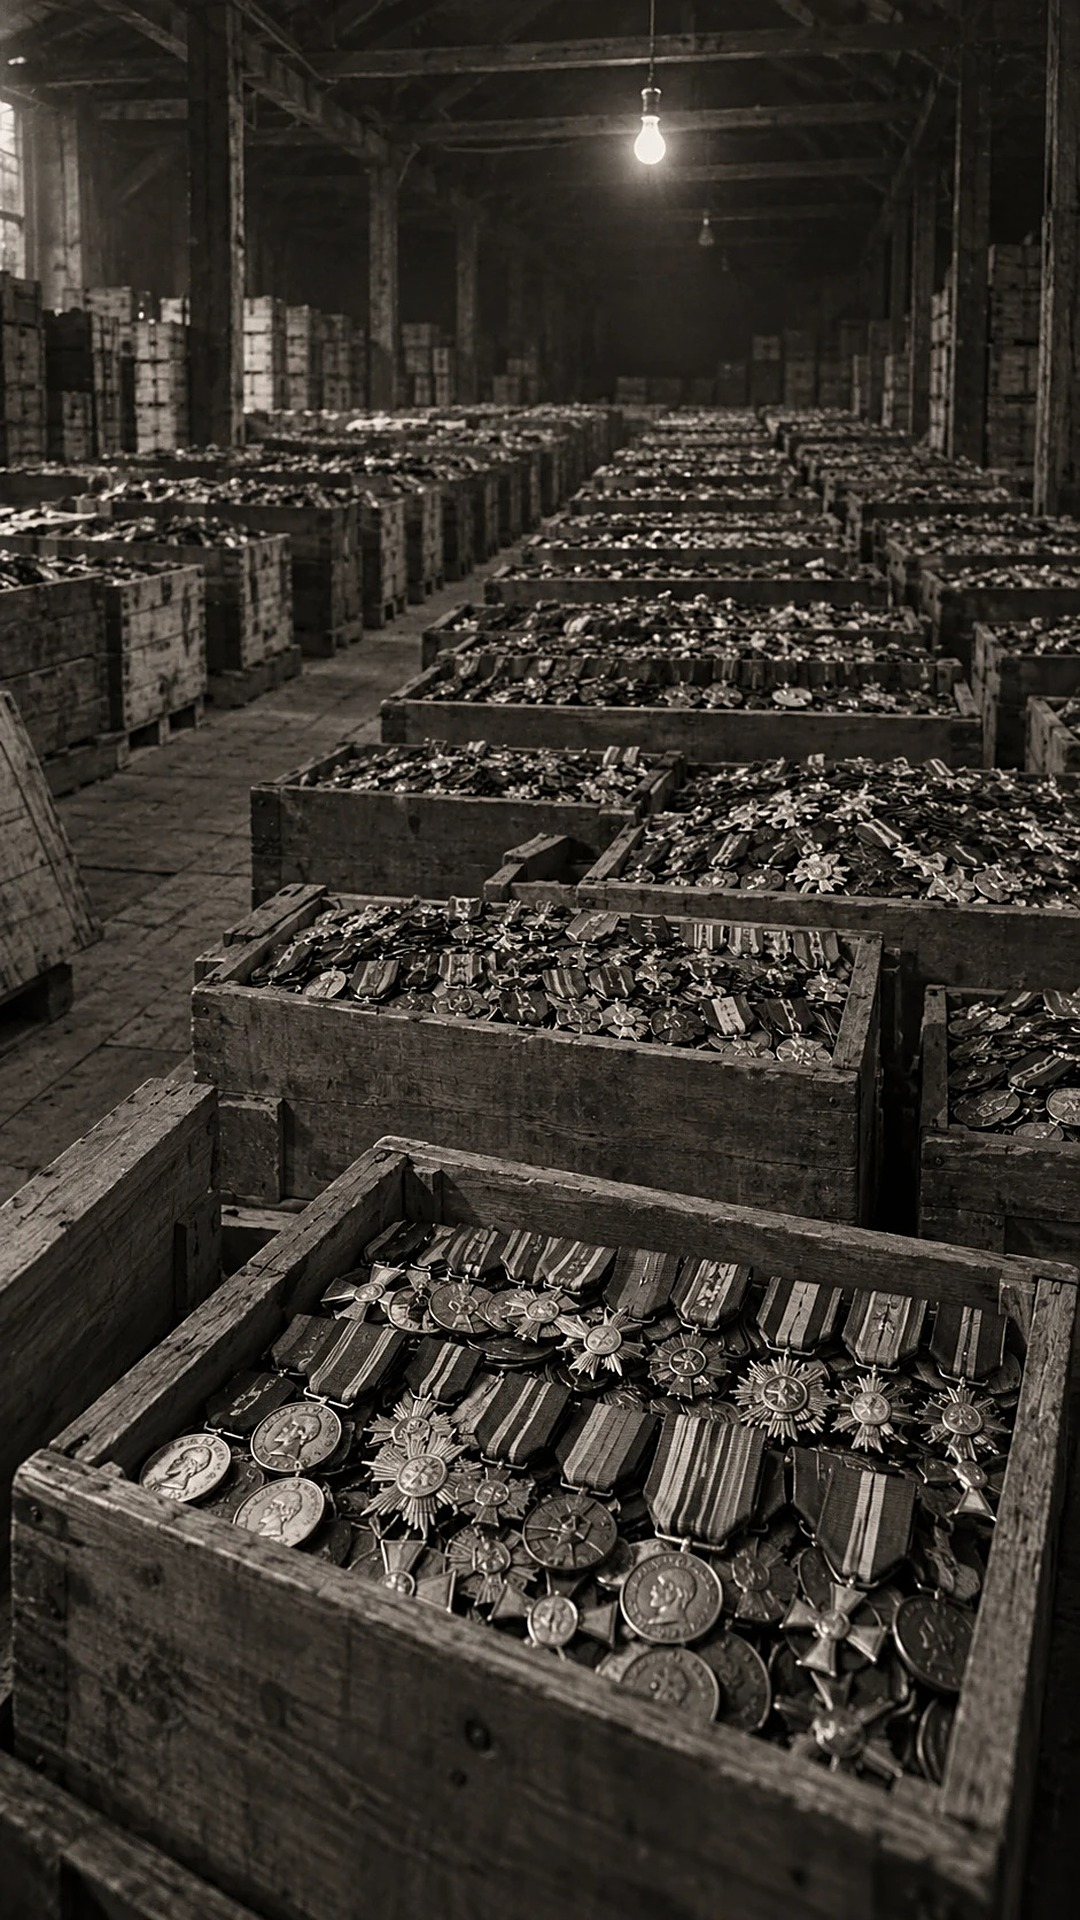
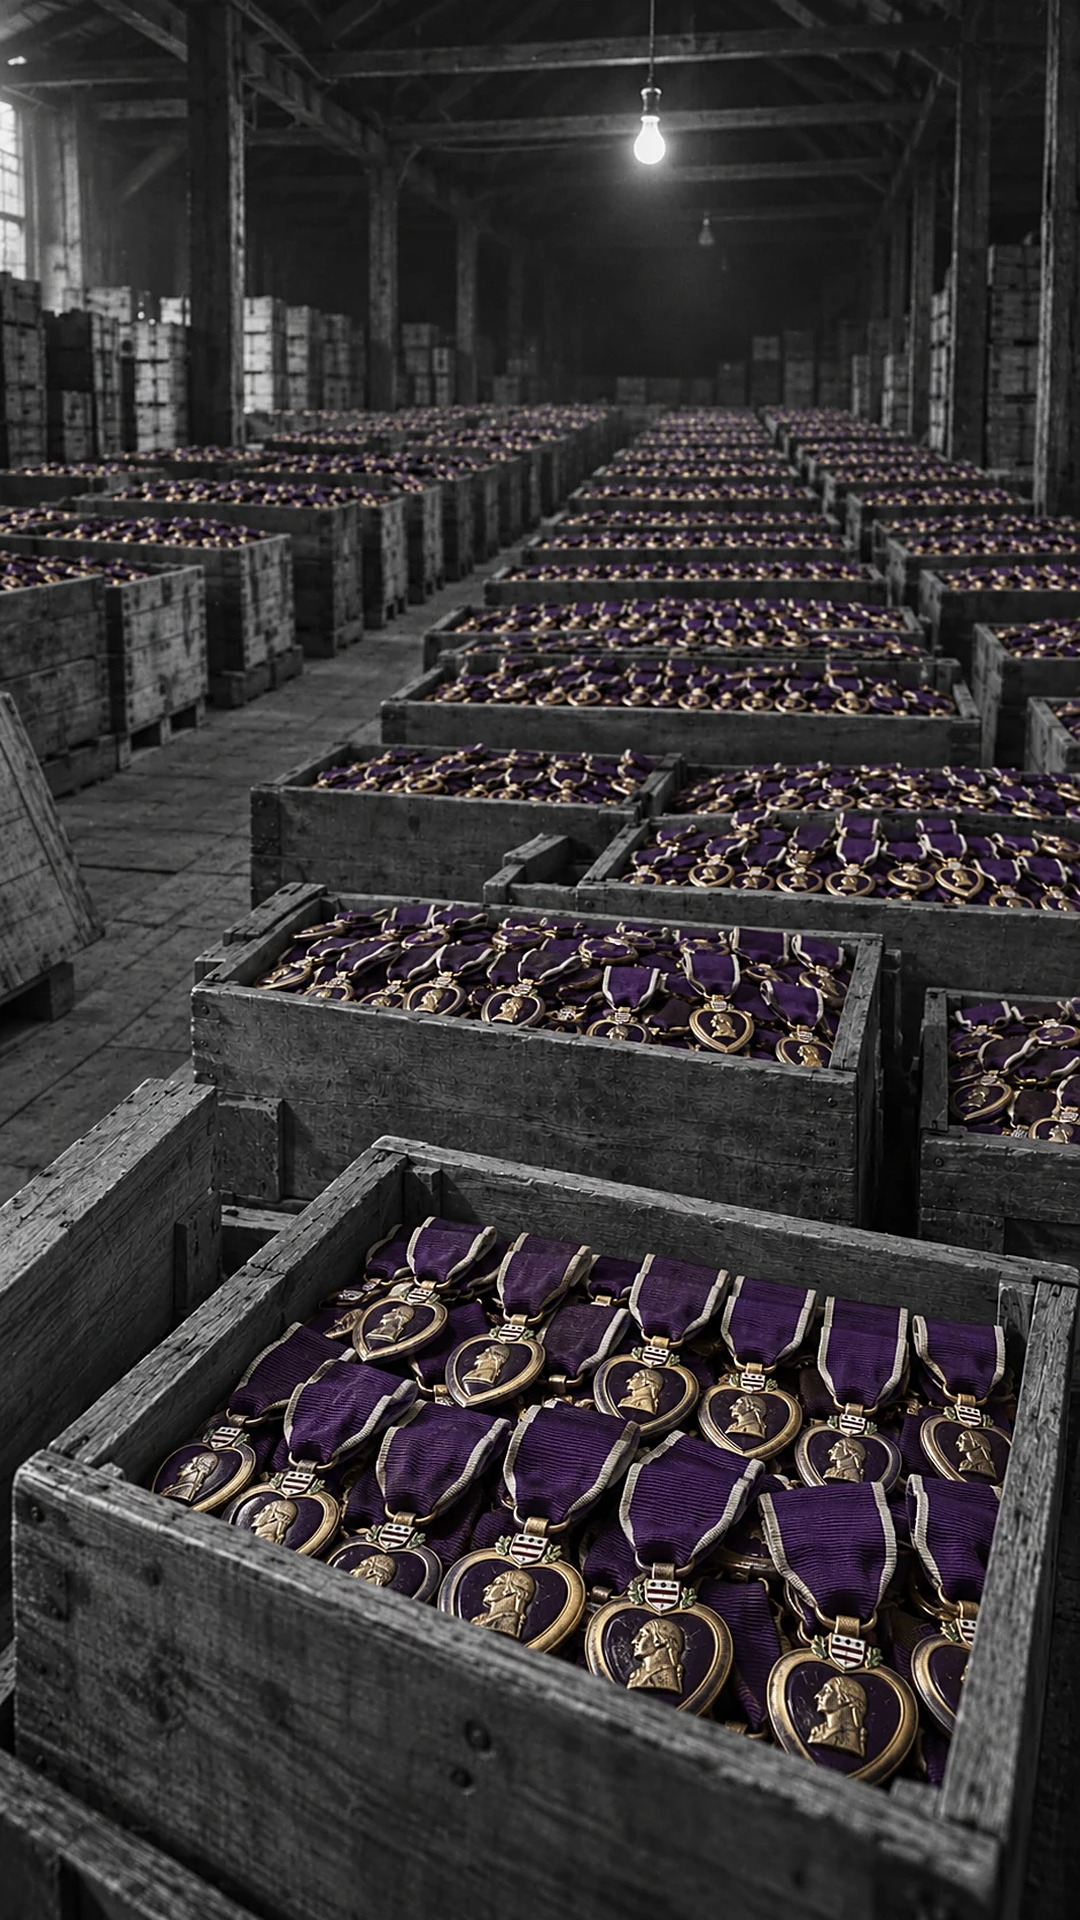
Bomb Short: add Purple Hearts warehouse image and scene update (videos not yet re-rendered)
Claude-Session: https://claude.ai/code/session_01Td8MTBUNaiXRLwJzNmGLks

diff --git a/shorts_bomb_came_later/index.html b/shorts_bomb_came_later/index.html
@@ -475,7 +475,7 @@ canvas{background:#000;max-width:100%;max-height:100%;aspect-ratio:9/16;height:1
   window.loadAssets = async () => {
     const imgs = await Promise.all(NAMES.map((n) => loadImg('assets/' + n + '.jpg')));
     NAMES.forEach((n, i) => { A[n] = filtered(imgs[i], 'contrast(1.08)'); });
-    A.medalsPurple = await loadImg('assets/medals_purple.png'); A.moonBlur = filtered(imgs[NAMES.indexOf('moon')], 'blur(14px) contrast(0.9)');
+    A.moonBlur = filtered(imgs[NAMES.indexOf('moon')], 'blur(14px) contrast(0.9)');
     A.cloudHot = filtered(imgs[0], 'brightness(1.6) contrast(1.3)');
     const [n, s, smoke] = await Promise.all([loadImg('assets/jp_north.png'), loadImg('assets/jp_south.png'), loadImg('assets/smoke.png')]);
     A.north = tintMask(n, [224, 38, 59]); A.south = tintMask(s, [47, 124, 240]);
@@ -643,8 +643,7 @@ canvas{background:#000;max-width:100%;max-height:100%;aspect-ratio:9/16;height:1
       [[0.2, 0.66, 0], [0.29, 0.69, 0.35], [0.3, 0.35, 0.7], [0.66, 0.42, 1.0], [0.26, 0.5, 1.6], [0.2, 0.66, 2.2]].forEach(([x, y, d]) => muzzle(ctx, r.P(x, y), t, sw + d, 1.1));
       particles(ctx, t, { n: 50, seed: 21, sp: [0.3, 0.6], vx: 0.02, vy: -0.08, size: [2, 5], color: '#fff', a: 0.35 });
       kin(ctx, 'BIGGEST INVASION', 900, 116, '#fff', t, sw); banner(ctx, 'IN HISTORY', 1040, 92, t, wt(46)); },
-    medals(ctx, t, s) { const u = E.inOut(seg(t, s.t0, wt(51) + 0.3)), r = rect(A.medals, lerp(0.38, 0.5, u), lerp(0.8, 0.5, u), lerp(3.2, 1.05, u)), fl = 0.88 + 0.12 * Math.sin(t * 23) * Math.sin(t * 7); ctx.filter = `brightness(${fl})`; ctx.drawImage(A.medals, r.x, r.y, r.dw, r.dh); ctx.filter = 'none';
-      { const pu = seg(t, wt(49) + 0.05, wt(53) + 0.2); if (pu > 0) { const c = [r.x + 0.36 * r.dw, r.y + 0.8 * r.dh], rad = 40 + E.inOut(pu) * 2.2 * r.dw; ctx.save(); ctx.beginPath(); ctx.arc(c[0], c[1], rad, 0, 7); ctx.clip(); ctx.filter = `brightness(${fl * 1.08}) saturate(1.15)`; ctx.drawImage(A.medalsPurple, r.x, r.y, r.dw, r.dh); ctx.globalCompositeOperation = 'lighter'; ctx.globalAlpha = 0.18 * (1 - pu * 0.6); ctx.drawImage(A.medalsPurple, r.x, r.y, r.dw, r.dh); ctx.restore(); } }
+    medals(ctx, t, s) { const u = E.inOut(seg(t, s.t0, wt(51) + 0.3)), r = rect(A.medals, lerp(0.61, 0.5, u), lerp(0.86, 0.55, u), lerp(3.4, 1.05, u)), fl = 0.88 + 0.12 * Math.sin(t * 23) * Math.sin(t * 7); ctx.filter = `brightness(${fl}) saturate(${lerp(0.35, 1.25, E.inOut(seg(t, wt(49), wt(53))))})`; ctx.drawImage(A.medals, r.x, r.y, r.dw, r.dh); ctx.filter = 'none';
       particles(ctx, t, { n: 50, seed: 14, sp: [0.03, 0.07], vx: 0.02, vy: 0.03, size: [1, 3], color: '#fff3d6', a: 0.6, mode: 'lighter' });
       counter(ctx, t, wt(49) - 0.05, wt(53), 500000, 700, 170, '#fff'); kin(ctx, 'PURPLE HEARTS', 860, 110, '#c58bff', t, wt(52)); tape(ctx, 'REAL · MADE FOR THE INVASION', W / 2, 1000, 48, CYAN, t, wt(55), -0.03); },
     hokkaido(ctx, t, s) { const u = seg(t, s.t0, s.t1); layered(ctx, A.soviets, A.sovietsFg, [0.55, 0.45, 1.12 - 0.05 * u], 1 + 0.12 * u, 0, 0, () => { const v = appear(t, s.t0 + 0.1, 0.25); if (v > 0) { ctx.save(); ctx.globalAlpha = v; ctx.font = '400 230px "Anton"'; ctx.textAlign = 'center'; ctx.lineWidth = 10; ctx.strokeStyle = 'rgba(0,0,0,0.6)'; ctx.strokeText('HOKKAIDO', W / 2, 760); ctx.fillStyle = 'rgba(255,255,255,0.92)'; ctx.fillText('HOKKAIDO', W / 2, 760); ctx.restore(); } }, [0.6, 0.6]);

diff --git a/shorts_bomb_came_later/index_reels.html b/shorts_bomb_came_later/index_reels.html
@@ -475,7 +475,7 @@ canvas{background:#000;max-width:100%;max-height:100%;aspect-ratio:9/16;height:1
   window.loadAssets = async () => {
     const imgs = await Promise.all(NAMES.map((n) => loadImg('assets/' + n + '.jpg')));
     NAMES.forEach((n, i) => { A[n] = filtered(imgs[i], 'contrast(1.08)'); });
-    A.medalsPurple = await loadImg('assets/medals_purple.png'); A.moonBlur = filtered(imgs[NAMES.indexOf('moon')], 'blur(14px) contrast(0.9)');
+    A.moonBlur = filtered(imgs[NAMES.indexOf('moon')], 'blur(14px) contrast(0.9)');
     A.cloudHot = filtered(imgs[0], 'brightness(1.6) contrast(1.3)');
     const [n, s, smoke] = await Promise.all([loadImg('assets/jp_north.png'), loadImg('assets/jp_south.png'), loadImg('assets/smoke.png')]);
     A.north = tintMask(n, [224, 38, 59]); A.south = tintMask(s, [47, 124, 240]);
@@ -643,8 +643,7 @@ canvas{background:#000;max-width:100%;max-height:100%;aspect-ratio:9/16;height:1
       [[0.2, 0.66, 0], [0.29, 0.69, 0.35], [0.3, 0.35, 0.7], [0.66, 0.42, 1.0], [0.26, 0.5, 1.6], [0.2, 0.66, 2.2]].forEach(([x, y, d]) => muzzle(ctx, r.P(x, y), t, sw + d, 1.1));
       particles(ctx, t, { n: 50, seed: 21, sp: [0.3, 0.6], vx: 0.02, vy: -0.08, size: [2, 5], color: '#fff', a: 0.35 });
       kin(ctx, 'BIGGEST INVASION', 900, 116, '#fff', t, sw); banner(ctx, 'IN HISTORY', 1040, 92, t, wt(46)); },
-    medals(ctx, t, s) { const u = E.inOut(seg(t, s.t0, wt(51) + 0.3)), r = rect(A.medals, lerp(0.38, 0.5, u), lerp(0.8, 0.5, u), lerp(3.2, 1.05, u)), fl = 0.88 + 0.12 * Math.sin(t * 23) * Math.sin(t * 7); ctx.filter = `brightness(${fl})`; ctx.drawImage(A.medals, r.x, r.y, r.dw, r.dh); ctx.filter = 'none';
-      { const pu = seg(t, wt(49) + 0.05, wt(53) + 0.2); if (pu > 0) { const c = [r.x + 0.36 * r.dw, r.y + 0.8 * r.dh], rad = 40 + E.inOut(pu) * 2.2 * r.dw; ctx.save(); ctx.beginPath(); ctx.arc(c[0], c[1], rad, 0, 7); ctx.clip(); ctx.filter = `brightness(${fl * 1.08}) saturate(1.15)`; ctx.drawImage(A.medalsPurple, r.x, r.y, r.dw, r.dh); ctx.globalCompositeOperation = 'lighter'; ctx.globalAlpha = 0.18 * (1 - pu * 0.6); ctx.drawImage(A.medalsPurple, r.x, r.y, r.dw, r.dh); ctx.restore(); } }
+    medals(ctx, t, s) { const u = E.inOut(seg(t, s.t0, wt(51) + 0.3)), r = rect(A.medals, lerp(0.61, 0.5, u), lerp(0.86, 0.55, u), lerp(3.4, 1.05, u)), fl = 0.88 + 0.12 * Math.sin(t * 23) * Math.sin(t * 7); ctx.filter = `brightness(${fl}) saturate(${lerp(0.35, 1.25, E.inOut(seg(t, wt(49), wt(53))))})`; ctx.drawImage(A.medals, r.x, r.y, r.dw, r.dh); ctx.filter = 'none';
       particles(ctx, t, { n: 50, seed: 14, sp: [0.03, 0.07], vx: 0.02, vy: 0.03, size: [1, 3], color: '#fff3d6', a: 0.6, mode: 'lighter' });
       counter(ctx, t, wt(49) - 0.05, wt(53), 500000, 700, 170, '#fff'); kin(ctx, 'PURPLE HEARTS', 860, 110, '#c58bff', t, wt(52)); tape(ctx, 'REAL · MADE FOR THE INVASION', W / 2, 1000, 48, CYAN, t, wt(55), -0.03); },
     hokkaido(ctx, t, s) { const u = seg(t, s.t0, s.t1); layered(ctx, A.soviets, A.sovietsFg, [0.55, 0.45, 1.12 - 0.05 * u], 1 + 0.12 * u, 0, 0, () => { const v = appear(t, s.t0 + 0.1, 0.25); if (v > 0) { ctx.save(); ctx.globalAlpha = v; ctx.font = '400 230px "Anton"'; ctx.textAlign = 'center'; ctx.lineWidth = 10; ctx.strokeStyle = 'rgba(0,0,0,0.6)'; ctx.strokeText('HOKKAIDO', W / 2, 760); ctx.fillStyle = 'rgba(255,255,255,0.92)'; ctx.fillText('HOKKAIDO', W / 2, 760); ctx.restore(); } }, [0.6, 0.6]);

diff --git a/shorts_bomb_came_later/index_tiktok.html b/shorts_bomb_came_later/index_tiktok.html
@@ -475,7 +475,7 @@ canvas{background:#000;max-width:100%;max-height:100%;aspect-ratio:9/16;height:1
   window.loadAssets = async () => {
     const imgs = await Promise.all(NAMES.map((n) => loadImg('assets/' + n + '.jpg')));
     NAMES.forEach((n, i) => { A[n] = filtered(imgs[i], 'contrast(1.08)'); });
-    A.medalsPurple = await loadImg('assets/medals_purple.png'); A.moonBlur = filtered(imgs[NAMES.indexOf('moon')], 'blur(14px) contrast(0.9)');
+    A.moonBlur = filtered(imgs[NAMES.indexOf('moon')], 'blur(14px) contrast(0.9)');
     A.cloudHot = filtered(imgs[0], 'brightness(1.6) contrast(1.3)');
     const [n, s, smoke] = await Promise.all([loadImg('assets/jp_north.png'), loadImg('assets/jp_south.png'), loadImg('assets/smoke.png')]);
     A.north = tintMask(n, [224, 38, 59]); A.south = tintMask(s, [47, 124, 240]);
@@ -643,8 +643,7 @@ canvas{background:#000;max-width:100%;max-height:100%;aspect-ratio:9/16;height:1
       [[0.2, 0.66, 0], [0.29, 0.69, 0.35], [0.3, 0.35, 0.7], [0.66, 0.42, 1.0], [0.26, 0.5, 1.6], [0.2, 0.66, 2.2]].forEach(([x, y, d]) => muzzle(ctx, r.P(x, y), t, sw + d, 1.1));
       particles(ctx, t, { n: 50, seed: 21, sp: [0.3, 0.6], vx: 0.02, vy: -0.08, size: [2, 5], color: '#fff', a: 0.35 });
       kin(ctx, 'BIGGEST INVASION', 900, 116, '#fff', t, sw); banner(ctx, 'IN HISTORY', 1040, 92, t, wt(46)); },
-    medals(ctx, t, s) { const u = E.inOut(seg(t, s.t0, wt(51) + 0.3)), r = rect(A.medals, lerp(0.38, 0.5, u), lerp(0.8, 0.5, u), lerp(3.2, 1.05, u)), fl = 0.88 + 0.12 * Math.sin(t * 23) * Math.sin(t * 7); ctx.filter = `brightness(${fl})`; ctx.drawImage(A.medals, r.x, r.y, r.dw, r.dh); ctx.filter = 'none';
-      { const pu = seg(t, wt(49) + 0.05, wt(53) + 0.2); if (pu > 0) { const c = [r.x + 0.36 * r.dw, r.y + 0.8 * r.dh], rad = 40 + E.inOut(pu) * 2.2 * r.dw; ctx.save(); ctx.beginPath(); ctx.arc(c[0], c[1], rad, 0, 7); ctx.clip(); ctx.filter = `brightness(${fl * 1.08}) saturate(1.15)`; ctx.drawImage(A.medalsPurple, r.x, r.y, r.dw, r.dh); ctx.globalCompositeOperation = 'lighter'; ctx.globalAlpha = 0.18 * (1 - pu * 0.6); ctx.drawImage(A.medalsPurple, r.x, r.y, r.dw, r.dh); ctx.restore(); } }
+    medals(ctx, t, s) { const u = E.inOut(seg(t, s.t0, wt(51) + 0.3)), r = rect(A.medals, lerp(0.61, 0.5, u), lerp(0.86, 0.55, u), lerp(3.4, 1.05, u)), fl = 0.88 + 0.12 * Math.sin(t * 23) * Math.sin(t * 7); ctx.filter = `brightness(${fl}) saturate(${lerp(0.35, 1.25, E.inOut(seg(t, wt(49), wt(53))))})`; ctx.drawImage(A.medals, r.x, r.y, r.dw, r.dh); ctx.filter = 'none';
       particles(ctx, t, { n: 50, seed: 14, sp: [0.03, 0.07], vx: 0.02, vy: 0.03, size: [1, 3], color: '#fff3d6', a: 0.6, mode: 'lighter' });
       counter(ctx, t, wt(49) - 0.05, wt(53), 500000, 700, 170, '#fff'); kin(ctx, 'PURPLE HEARTS', 860, 110, '#c58bff', t, wt(52)); tape(ctx, 'REAL · MADE FOR THE INVASION', W / 2, 1000, 48, CYAN, t, wt(55), -0.03); },
     hokkaido(ctx, t, s) { const u = seg(t, s.t0, s.t1); layered(ctx, A.soviets, A.sovietsFg, [0.55, 0.45, 1.12 - 0.05 * u], 1 + 0.12 * u, 0, 0, () => { const v = appear(t, s.t0 + 0.1, 0.25); if (v > 0) { ctx.save(); ctx.globalAlpha = v; ctx.font = '400 230px "Anton"'; ctx.textAlign = 'center'; ctx.lineWidth = 10; ctx.strokeStyle = 'rgba(0,0,0,0.6)'; ctx.strokeText('HOKKAIDO', W / 2, 760); ctx.fillStyle = 'rgba(255,255,255,0.92)'; ctx.fillText('HOKKAIDO', W / 2, 760); ctx.restore(); } }, [0.6, 0.6]);

diff --git a/shorts_bomb_came_later/src/scenes.js b/shorts_bomb_came_later/src/scenes.js
@@ -86,8 +86,7 @@
       [[0.2, 0.66, 0], [0.29, 0.69, 0.35], [0.3, 0.35, 0.7], [0.66, 0.42, 1.0], [0.26, 0.5, 1.6], [0.2, 0.66, 2.2]].forEach(([x, y, d]) => muzzle(ctx, r.P(x, y), t, sw + d, 1.1));
       particles(ctx, t, { n: 50, seed: 21, sp: [0.3, 0.6], vx: 0.02, vy: -0.08, size: [2, 5], color: '#fff', a: 0.35 });
       kin(ctx, 'BIGGEST INVASION', 900, 116, '#fff', t, sw); banner(ctx, 'IN HISTORY', 1040, 92, t, wt(46)); },
-    medals(ctx, t, s) { const u = E.inOut(seg(t, s.t0, wt(51) + 0.3)), r = rect(A.medals, lerp(0.38, 0.5, u), lerp(0.8, 0.5, u), lerp(3.2, 1.05, u)), fl = 0.88 + 0.12 * Math.sin(t * 23) * Math.sin(t * 7); ctx.filter = `brightness(${fl})`; ctx.drawImage(A.medals, r.x, r.y, r.dw, r.dh); ctx.filter = 'none';
-      { const pu = seg(t, wt(49) + 0.05, wt(53) + 0.2); if (pu > 0) { const c = [r.x + 0.36 * r.dw, r.y + 0.8 * r.dh], rad = 40 + E.inOut(pu) * 2.2 * r.dw; ctx.save(); ctx.beginPath(); ctx.arc(c[0], c[1], rad, 0, 7); ctx.clip(); ctx.filter = `brightness(${fl * 1.08}) saturate(1.15)`; ctx.drawImage(A.medalsPurple, r.x, r.y, r.dw, r.dh); ctx.globalCompositeOperation = 'lighter'; ctx.globalAlpha = 0.18 * (1 - pu * 0.6); ctx.drawImage(A.medalsPurple, r.x, r.y, r.dw, r.dh); ctx.restore(); } }
+    medals(ctx, t, s) { const u = E.inOut(seg(t, s.t0, wt(51) + 0.3)), r = rect(A.medals, lerp(0.61, 0.5, u), lerp(0.86, 0.55, u), lerp(3.4, 1.05, u)), fl = 0.88 + 0.12 * Math.sin(t * 23) * Math.sin(t * 7); ctx.filter = `brightness(${fl}) saturate(${lerp(0.35, 1.25, E.inOut(seg(t, wt(49), wt(53))))})`; ctx.drawImage(A.medals, r.x, r.y, r.dw, r.dh); ctx.filter = 'none';
       particles(ctx, t, { n: 50, seed: 14, sp: [0.03, 0.07], vx: 0.02, vy: 0.03, size: [1, 3], color: '#fff3d6', a: 0.6, mode: 'lighter' });
       counter(ctx, t, wt(49) - 0.05, wt(53), 500000, 700, 170, '#fff'); kin(ctx, 'PURPLE HEARTS', 860, 110, '#c58bff', t, wt(52)); tape(ctx, 'REAL · MADE FOR THE INVASION', W / 2, 1000, 48, CYAN, t, wt(55), -0.03); },
     hokkaido(ctx, t, s) { const u = seg(t, s.t0, s.t1); layered(ctx, A.soviets, A.sovietsFg, [0.55, 0.45, 1.12 - 0.05 * u], 1 + 0.12 * u, 0, 0, () => { const v = appear(t, s.t0 + 0.1, 0.25); if (v > 0) { ctx.save(); ctx.globalAlpha = v; ctx.font = '400 230px "Anton"'; ctx.textAlign = 'center'; ctx.lineWidth = 10; ctx.strokeStyle = 'rgba(0,0,0,0.6)'; ctx.strokeText('HOKKAIDO', W / 2, 760); ctx.fillStyle = 'rgba(255,255,255,0.92)'; ctx.fillText('HOKKAIDO', W / 2, 760); ctx.restore(); } }, [0.6, 0.6]);

diff --git a/shorts_bomb_came_later/src/head.js b/shorts_bomb_came_later/src/head.js
@@ -20,7 +20,7 @@
   window.loadAssets = async () => {
     const imgs = await Promise.all(NAMES.map((n) => loadImg('assets/' + n + '.jpg')));
     NAMES.forEach((n, i) => { A[n] = filtered(imgs[i], 'contrast(1.08)'); });
-    A.medalsPurple = await loadImg('assets/medals_purple.png'); A.moonBlur = filtered(imgs[NAMES.indexOf('moon')], 'blur(14px) contrast(0.9)');
+    A.moonBlur = filtered(imgs[NAMES.indexOf('moon')], 'blur(14px) contrast(0.9)');
     A.cloudHot = filtered(imgs[0], 'brightness(1.6) contrast(1.3)');
     const [n, s, smoke] = await Promise.all([loadImg('assets/jp_north.png'), loadImg('assets/jp_south.png'), loadImg('assets/smoke.png')]);
     A.north = tintMask(n, [224, 38, 59]); A.south = tintMask(s, [47, 124, 240]);
